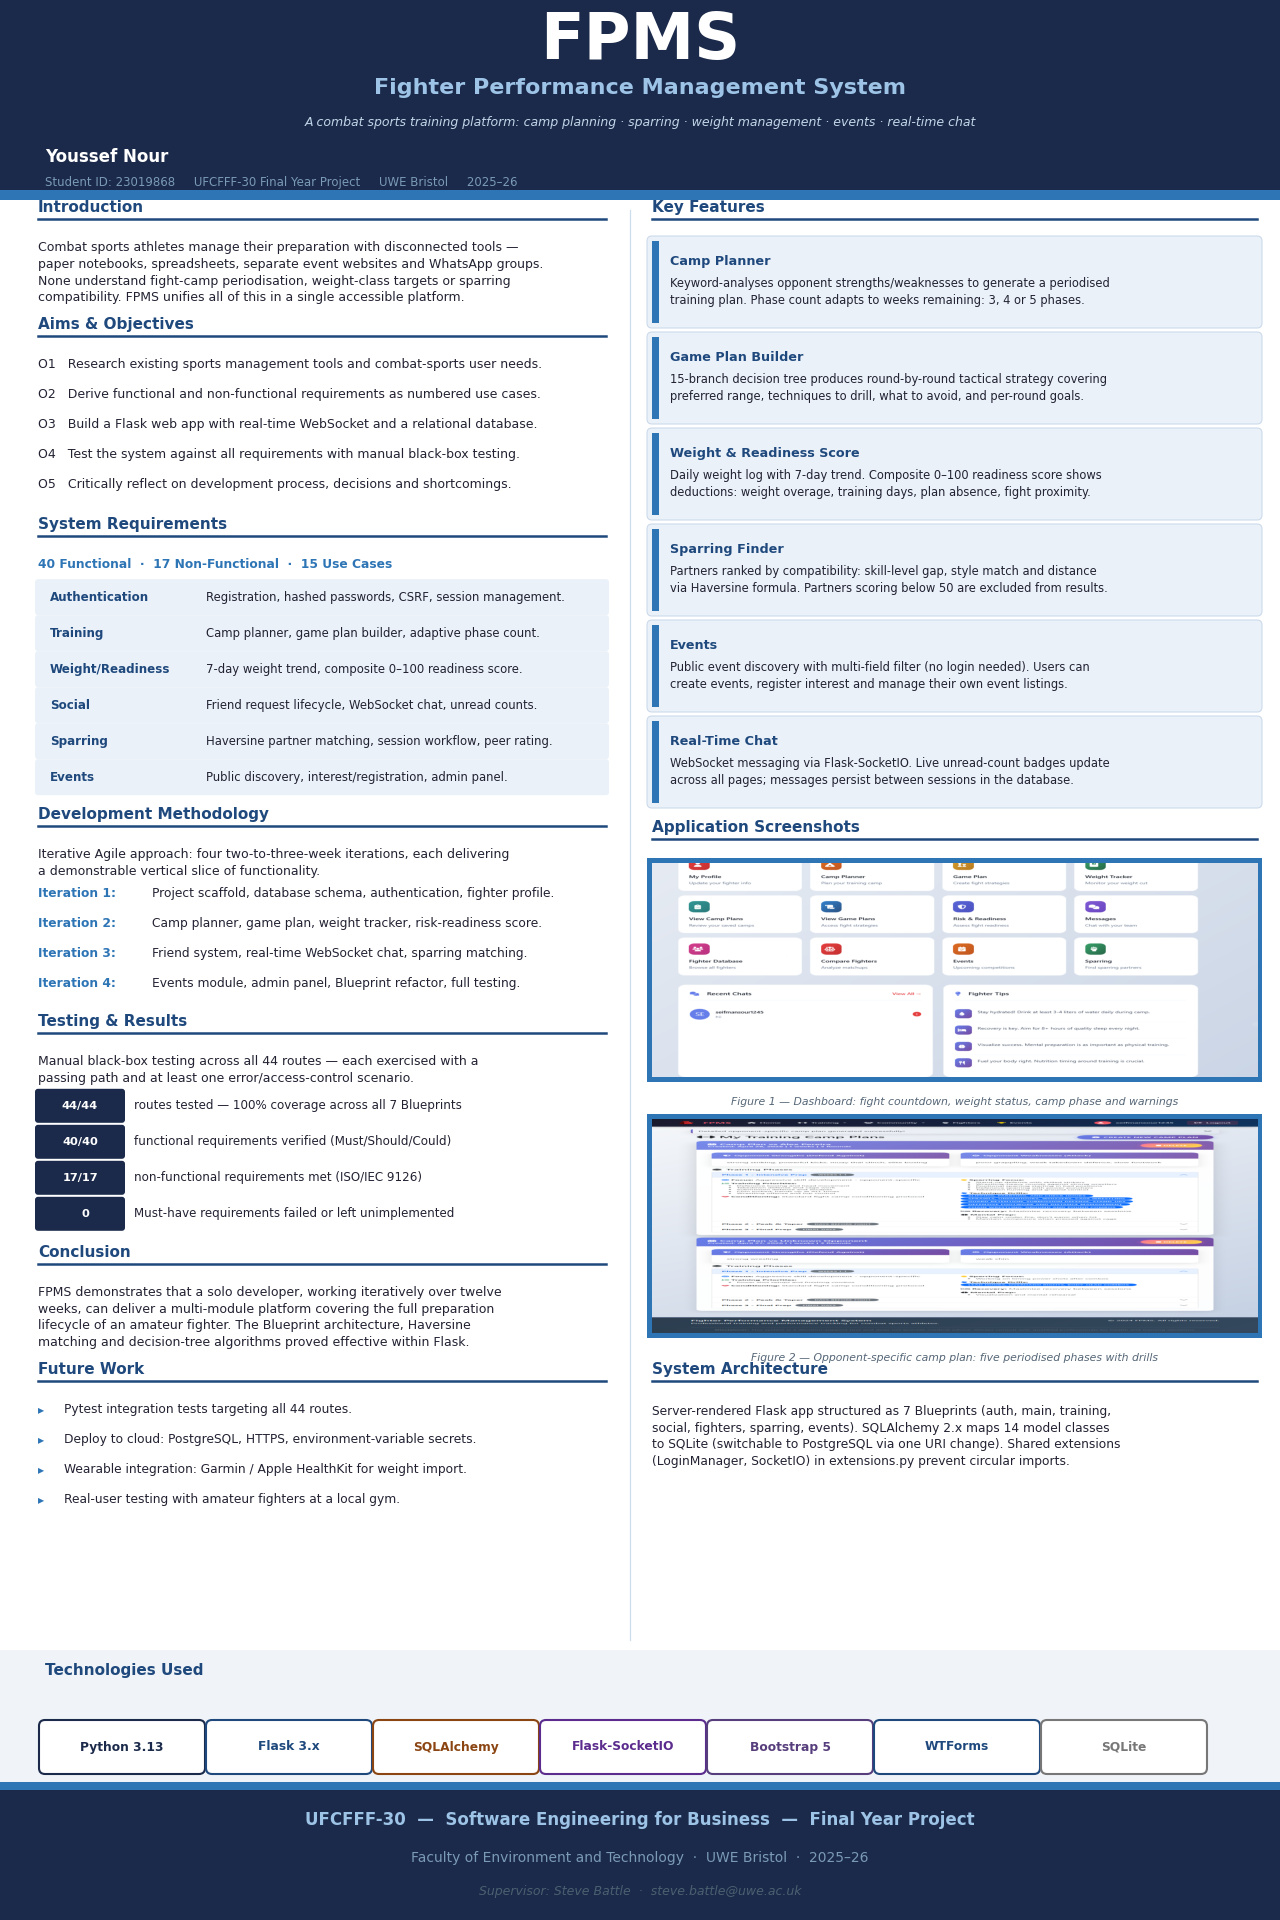
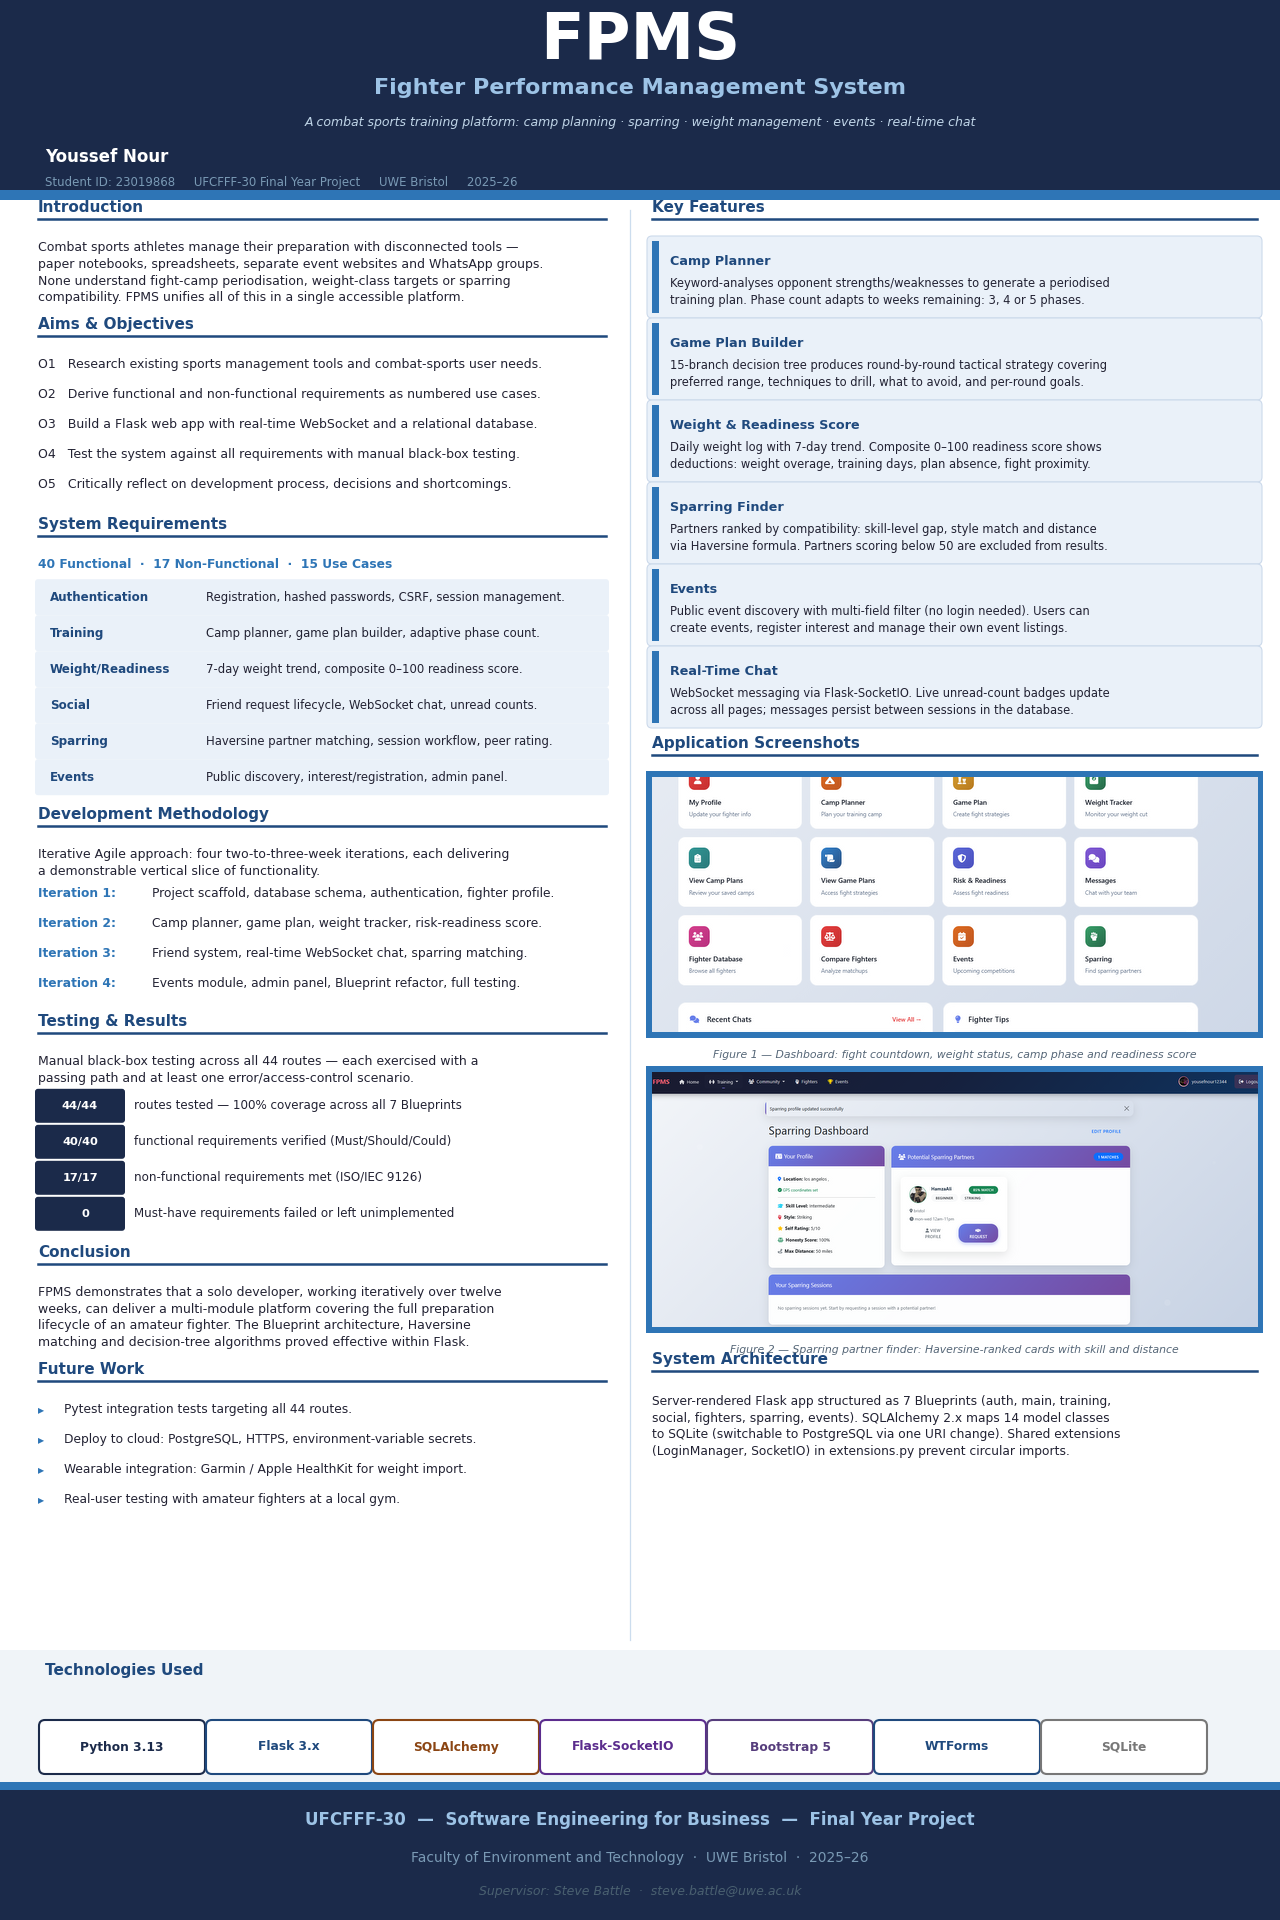
Fix poster screenshots: proper aspect-ratio crop, lanczos interpolation, larger display

Changed region(s): [[0.5, 0.1562, 1.0, 0.7812]]

diff --git a/docs/gen_poster.py b/docs/gen_poster.py
@@ -6,6 +6,7 @@ matplotlib.use('Agg')
 import matplotlib.pyplot as plt
 from matplotlib.patches import FancyBboxPatch, Rectangle
 import matplotlib.image as mpimg
+import numpy as np
 
 DEST = os.path.join(os.path.dirname(os.path.abspath(sys.argv[0])), 'screenshots')
 DPI  = 100
@@ -44,10 +45,22 @@ def add_img(path, lx, by, iw, ih):
         ax.add_patch(Rectangle((lx,by),iw,ih, facecolor=LGREY,
                                 edgecolor=BLUE, linewidth=1, zorder=8))
         return
-    ax.add_patch(Rectangle((lx-0.05, by-0.05), iw+0.10, ih+0.10,
+    img = mpimg.imread(path)
+    # crop to target aspect ratio so nothing is stretched
+    target = iw / ih
+    h, w = img.shape[:2]
+    if w / h > target:          # too wide — crop sides
+        new_w = int(h * target)
+        x0 = (w - new_w) // 2
+        img = img[:, x0:x0+new_w]
+    else:                       # too tall — show top (most useful content)
+        new_h = int(w / target)
+        img = img[:new_h, :]
+    # blue border
+    ax.add_patch(Rectangle((lx-0.06, by-0.06), iw+0.12, ih+0.12,
                             facecolor=BLUE, linewidth=0, zorder=8))
     a = fig.add_axes([lx/W, by/H, iw/W, ih/H])
-    a.imshow(mpimg.imread(path), aspect='auto')
+    a.imshow(img, aspect='auto', interpolation='lanczos')
     a.axis('off')
 
 # ═══════════════════════════════════════════════════════════════════════════════
@@ -230,8 +243,8 @@ features = [
      'across all pages; messages persist between sessions in the database.'),
 ]
 
-CARD_H = 0.82
-CARD_GAP = 0.14
+CARD_H = 0.72
+CARD_GAP = 0.10
 for i, (title, line1, line2) in enumerate(features):
     cy = RY - i * (CARD_H + CARD_GAP)
     # card background
@@ -253,21 +266,21 @@ shots_top = RY - 6*(CARD_H+CARD_GAP) - 0.18
 
 # ── Application Screenshots ───────────────────────────────────────────────────
 shdr(RX, shots_top, RW, 'Application Screenshots')
-SY = shots_top - 0.28
-SH = 2.14   # each screenshot height
+SY = shots_top - 0.26
+SH = 2.55   # each screenshot height
 
 add_img(os.path.join(DEST, '02_dashboard.png'), RX, SY-SH, RW, SH)
-ax.text(RX+RW/2, SY-SH-0.20,
-        'Figure 1 — Dashboard: fight countdown, weight status, camp phase and warnings',
+ax.text(RX+RW/2, SY-SH-0.18,
+        'Figure 1 — Dashboard: fight countdown, weight status, camp phase and readiness score',
         ha='center', va='top', fontsize=7.8, color=MGREY, style='italic', zorder=12)
 
-SY2 = SY - SH - 0.42
-add_img(os.path.join(DEST, '03_camp_plan.png'), RX, SY2-SH, RW, SH)
-ax.text(RX+RW/2, SY2-SH-0.20,
-        'Figure 2 — Opponent-specific camp plan: five periodised phases with drills',
+SY2 = SY - SH - 0.40
+add_img(os.path.join(DEST, '04_sparring_dashboard.png'), RX, SY2-SH, RW, SH)
+ax.text(RX+RW/2, SY2-SH-0.18,
+        'Figure 2 — Sparring partner finder: Haversine-ranked cards with skill and distance',
         ha='center', va='top', fontsize=7.8, color=MGREY, style='italic', zorder=12)
 
-arch_top = SY2 - SH - 0.44
+arch_top = SY2 - SH - 0.40
 
 # ── System Architecture ───────────────────────────────────────────────────────
 shdr(RX, arch_top, RW, 'System Architecture')
